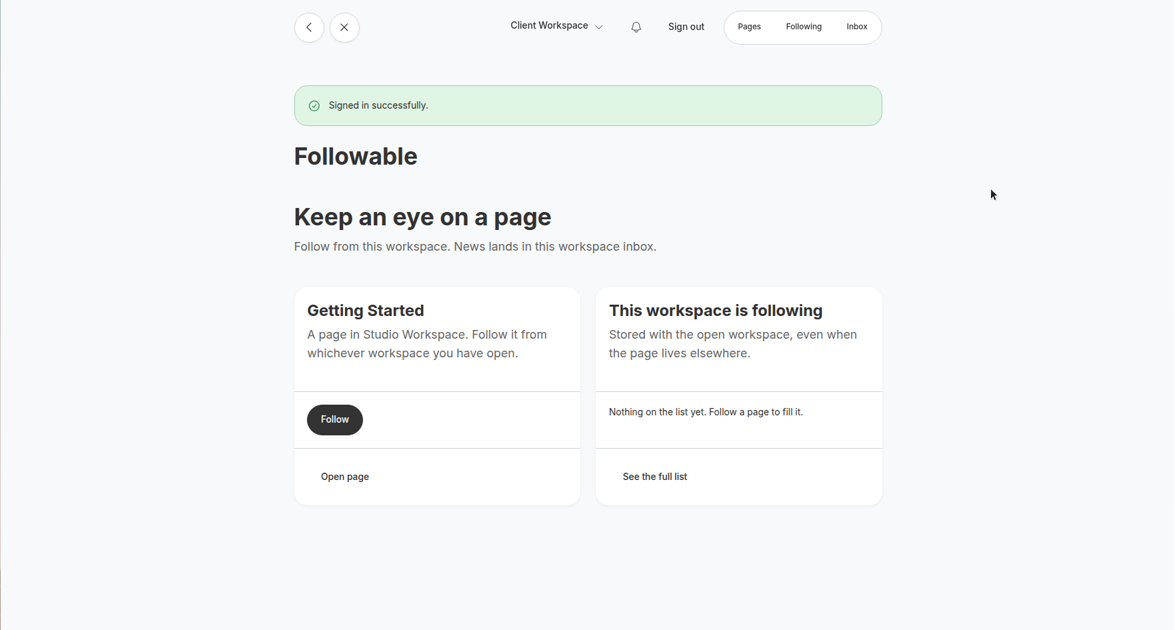
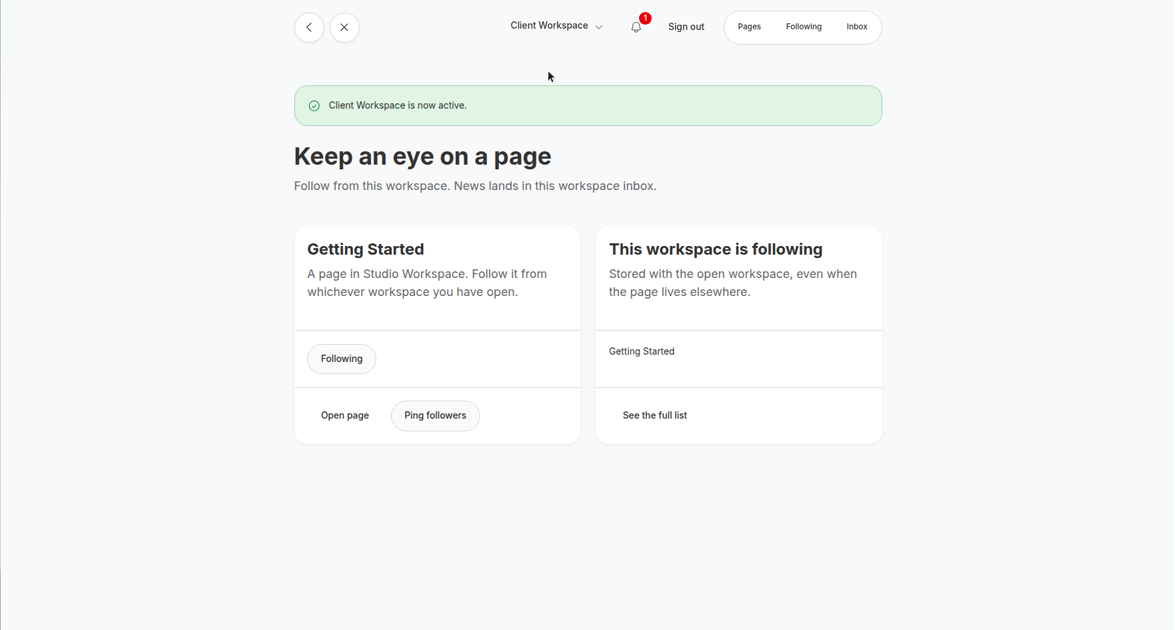
Keep one heading on dummy home and Following pages.
Drop the stray Followable title on home and the duplicate Following heading on the list. Retake dummy screenshots in the followed state and note that MCP 0.28.0 still pins API below 0.18.

diff --git a/test/recording_studio_followable_test.rb b/test/recording_studio_followable_test.rb
@@ -228,12 +228,21 @@ class RecordingStudioFollowableTest < Minitest::Test
     view_path = File.expand_path("dummy/app/views/home/index.html.erb", __dir__)
     view_source = File.read(view_path)
 
-    assert_includes view_source, 'title: "Followable"'
+    refute_includes view_source, 'title: "Followable"'
+    assert_includes view_source, 'title: "Keep an eye on a page"'
     assert_includes view_source, "FollowButtonComponent"
     assert_includes view_source, "FlatPack::Card::Component"
     assert_includes view_source, "dummy_page_nav"
     refute_includes view_source, 'title: "Template Demo"'
     refute_includes view_source, "FlatPack::Breadcrumb::Component"
+  end
+
+  def test_dummy_following_page_keeps_one_heading
+    view_path = File.expand_path("dummy/app/views/follows/index.html.erb", __dir__)
+    view_source = File.read(view_path)
+
+    assert_equal 1, view_source.scan('title: "Following"').length
+    refute_includes view_source, 'dummy_page_nav(title: "Following"'
   end
 
   def test_dummy_does_not_ship_template_starter_docs

diff --git a/test/dummy/test/integration/follow_flow_test.rb b/test/dummy/test/integration/follow_flow_test.rb
@@ -24,6 +24,8 @@ class FollowFlowTest < ActionDispatch::IntegrationTest
     assert_response :success
     assert_includes @response.body, "Follow"
     assert_includes @response.body, "Keep an eye on a page"
+    refute_match %r{<h1[^>]*>Followable</h1>}, @response.body
+    assert_equal 1, @response.body.scan(/<h1[\s>]/i).length
   end
 
   test "following a page from the current workspace lists it and can ping the inbox" do
@@ -36,6 +38,7 @@ class FollowFlowTest < ActionDispatch::IntegrationTest
     get main_app.follows_path
     assert_response :success
     assert_includes @response.body, "Getting Started"
+    assert_equal 1, @response.body.scan(/<h1[\s>]/i).length
 
     post main_app.notify_followers_page_path(@page), params: { event_key: "flow-test" }
     follow_redirect!

diff --git a/test/dummy/app/helpers/application_helper.rb b/test/dummy/app/helpers/application_helper.rb
@@ -2,7 +2,7 @@ module ApplicationHelper
   include RecordingStudio::LayoutHelper
   include RecordingStudioNotifications::MenuHelper if defined?(RecordingStudioNotifications::MenuHelper)
 
-  def dummy_page_nav(title:, back_url: nil, back_label: "Home")
+  def dummy_page_nav(title: nil, back_url: nil, back_label: "Home")
     content_for(:title, title) if title.present?
     if back_url.present?
       flat_pack_page_nav(round: true, style: :default, anchor_href: back_url, anchor_tooltip: back_label)

diff --git a/lib/generators/recording_studio_followable/install/templates/INSTALL.md b/lib/generators/recording_studio_followable/install/templates/INSTALL.md
@@ -8,4 +8,4 @@ Next steps:
 4. Include `RecordingStudio::Capabilities::FollowParent.to` on roots that store follows.
 5. Run `bin/rails generate recording_studio_followable:migrations` then `bin/rails db:migrate`.
 6. Pin `recording_studio_notifications` at v0.14.9 (or compatible) and register a `:root` notification type before calling `notify_followers`.
-7. Register Page (or your followed types) and your root type with Recording Studio API so `follow`, `unfollow`, `followers`, and `follows` appear. MCP uses those same actions when the host's MCP gem accepts the API version.
+7. Register Page (or your followed types) and your root type with Recording Studio API so `follow`, `unfollow`, `followers`, and `follows` appear. Recording Studio MCP 0.28.0 pins `recording_studio_api >= 0.17, < 0.18`, so hosts cannot load MCP next to API 0.19 today. The HTTP actions still ship. MCP can wrap them after MCP allows API 0.19.

diff --git a/README.md b/README.md
@@ -88,12 +88,12 @@ The idempotency key is `followable/{follow_root_id}/{followed_recording_id}/{eve
 
 Dummy screenshots from this version:
 
-![Follow button](docs/screenshots/follow-button.png)
+![Follow button, following](docs/screenshots/follow-button.png)
 ![Following list](docs/screenshots/follows-list.png)
 ![Inbox notice](docs/screenshots/notification-inbox.png)
 
-- Home: follow button for Getting Started, short following list, ping button
-- `/follows`: full list
+- Home: one title, follow button for Getting Started in the followed state, short following list, ping button
+- `/follows`: one Following heading and the full list
 - `/notifications`: inbox from Recording Studio Notifications
 
 Alice (`alice@example.com`), Bob, and Charlie share Client Workspace. Getting Started lives in Studio Workspace.
